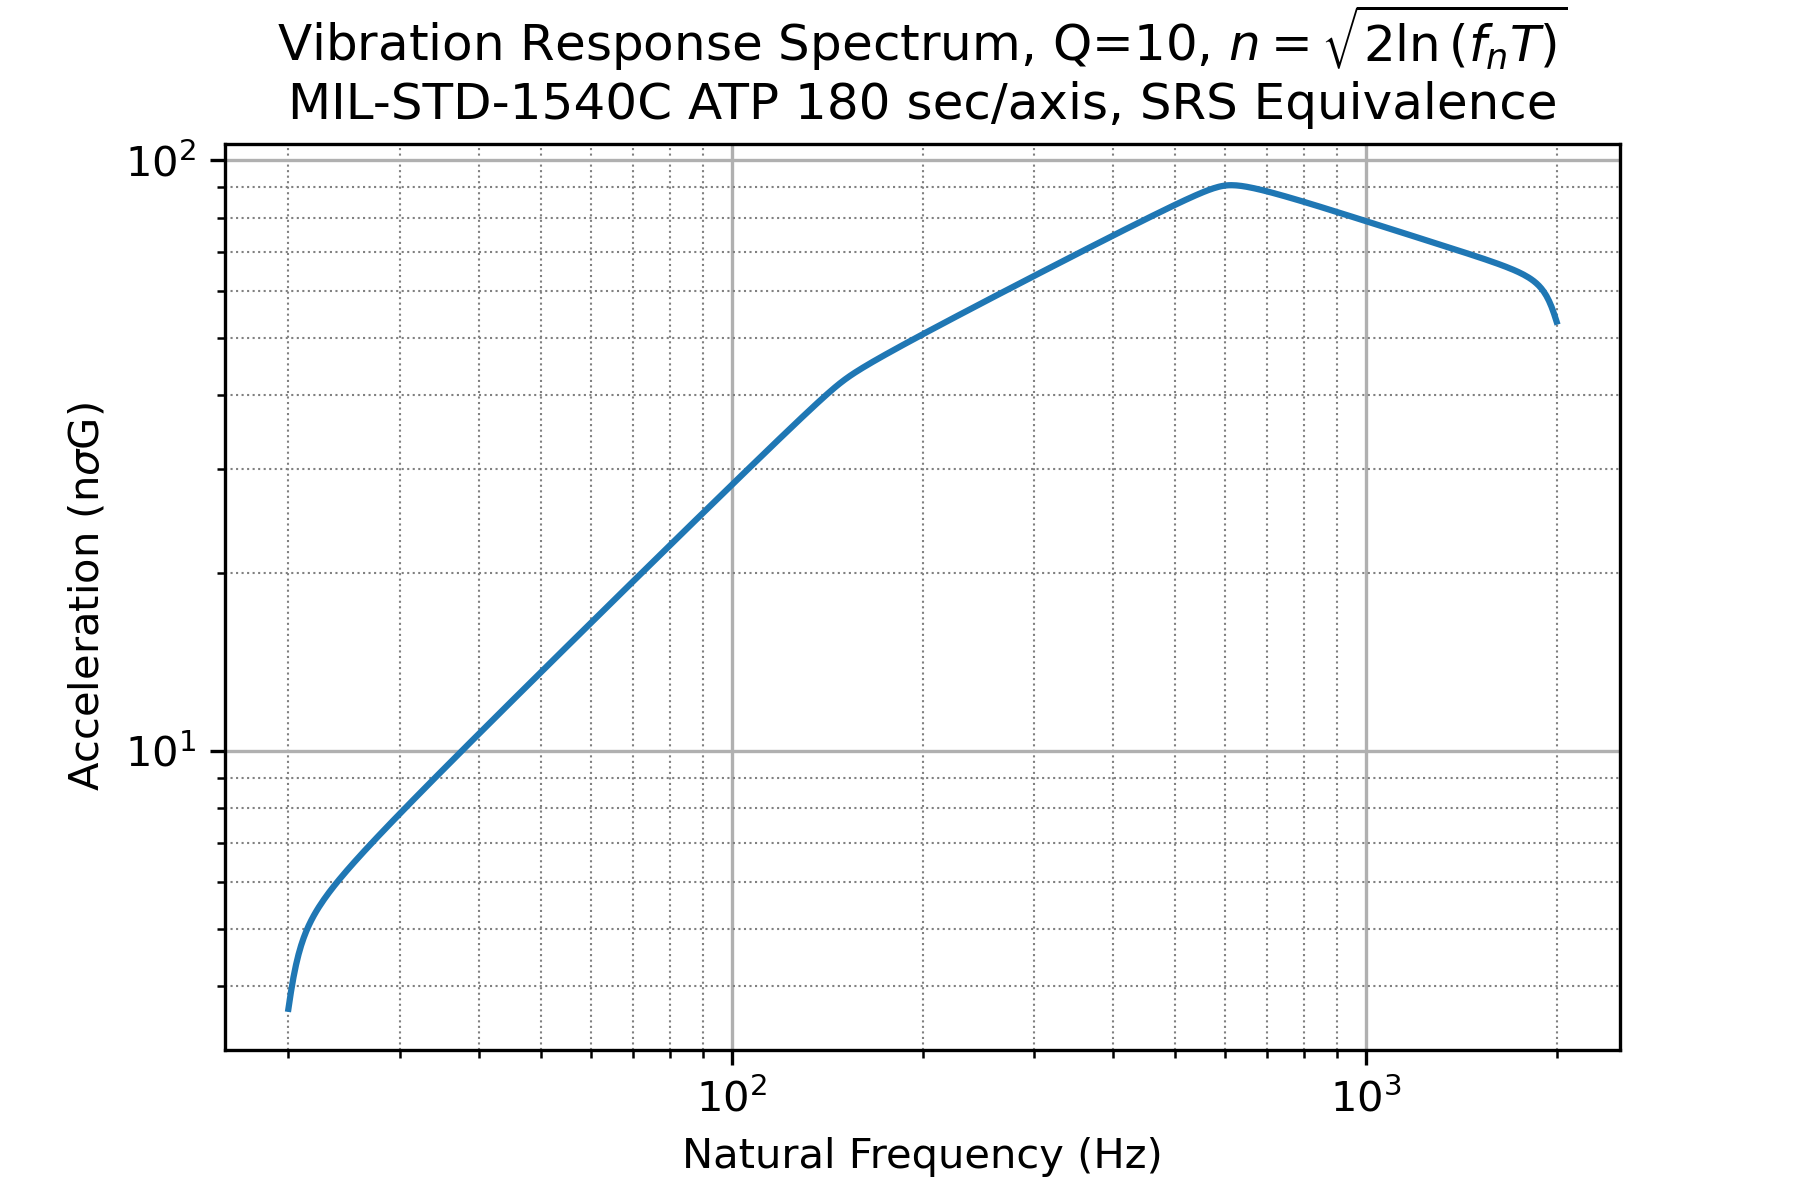
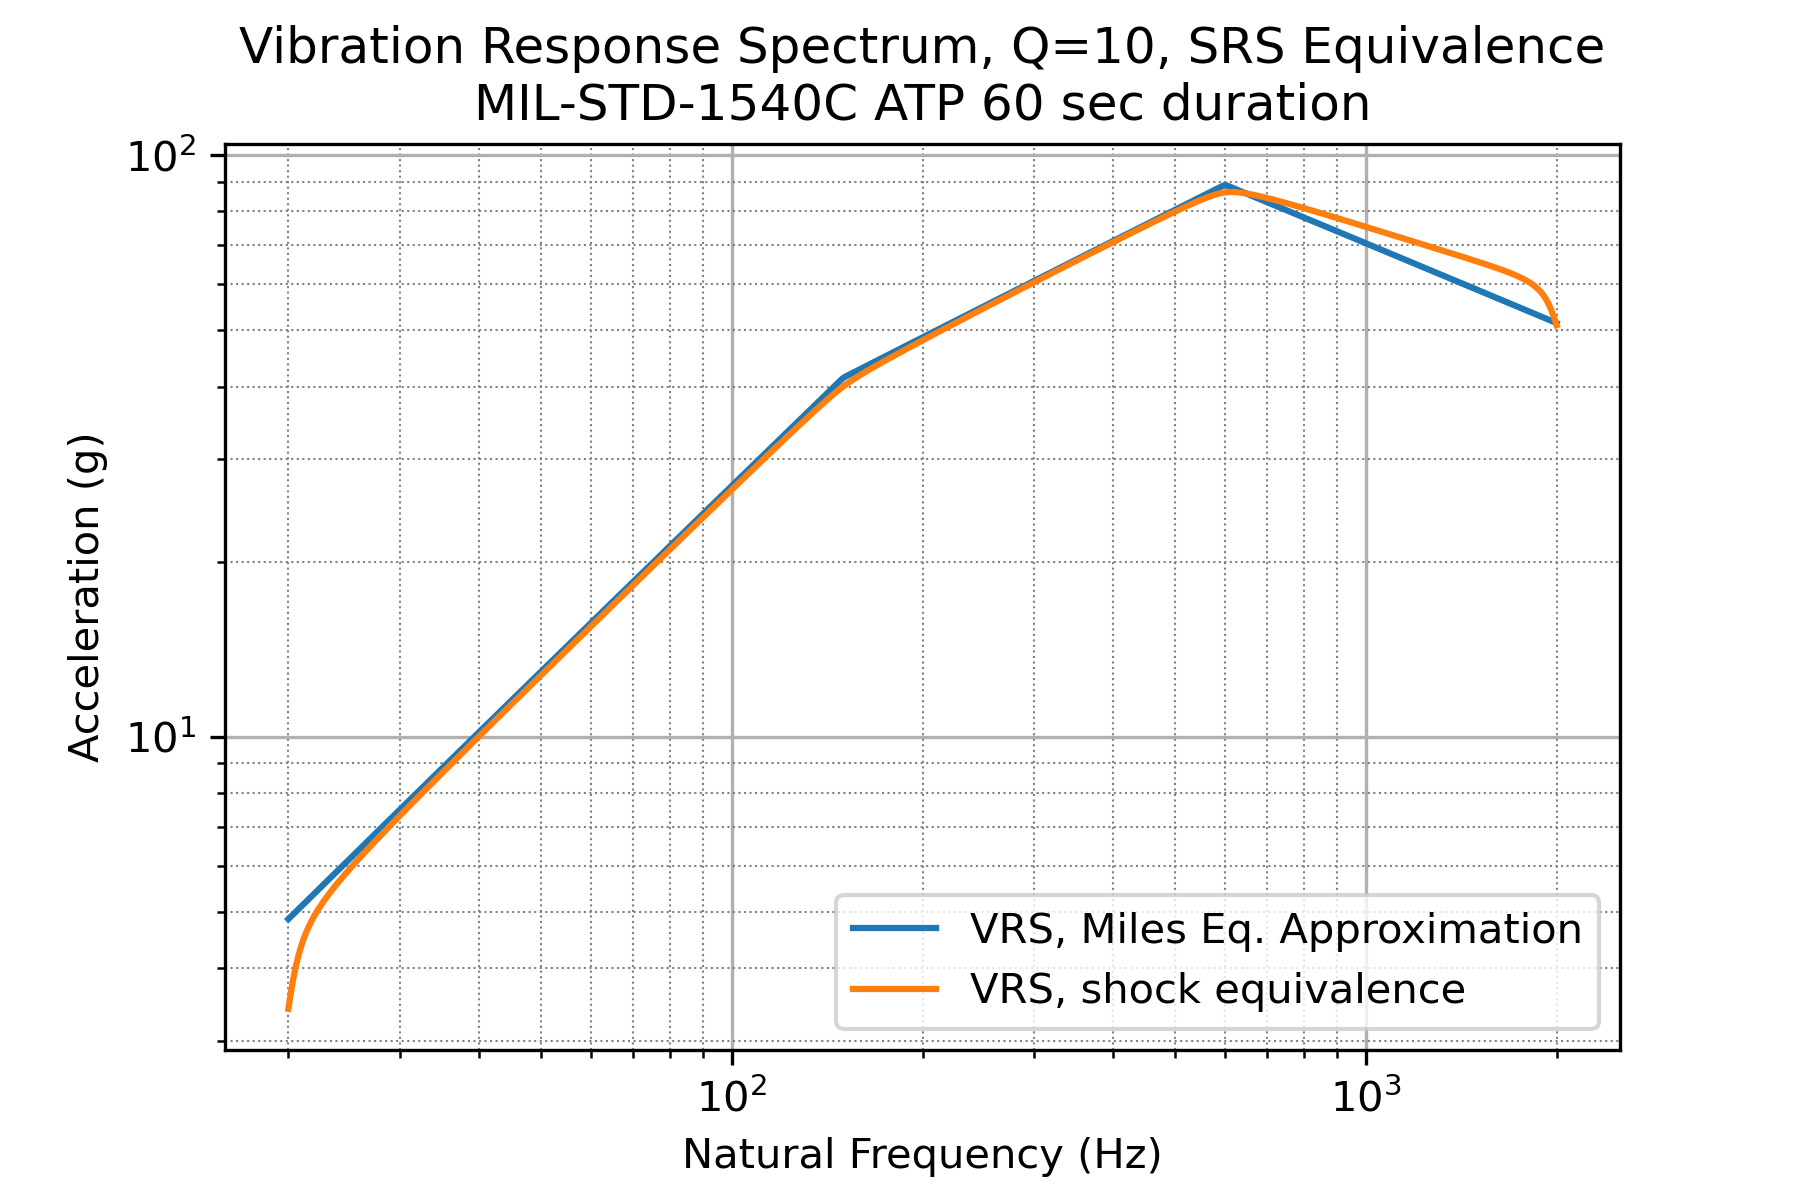
small changes + added miles approximation VRS

diff --git a/python/dynamics/vibration.py b/python/dynamics/vibration.py
@@ -1,6 +1,8 @@
 import numpy as np
+from scipy import signal, fft
 
 def loglogslopes(*args):
+    """computes the slope between points on a loglog scale"""
     if len(args) == 1:
         spectrum = args[0]
         freq_consecutive_ratios = spectrum[1:,0]/spectrum[0:-1, 0]
@@ -18,6 +20,7 @@ def loglogslopes(*args):
 
 
 def spectrum_area(*args):
+    """calculates the area underneath a loglog plot"""
     if len(args) == 1:
         spectrum = args[0]
         n = np.atleast_2d(loglogslopes(spectrum))
@@ -49,6 +52,7 @@ def spectrum_area(*args):
 
 
 def grms(*args):
+    """calculates the grms level of an acceleration power spectral density"""
     if len(args) == 1:
         area = spectrum_area(args[0])
     elif len(args) == 2:
@@ -62,6 +66,7 @@ def grms(*args):
 
 
 def findnearest_above(x_q, x):
+    """finds the element in x that is nearest but greater than x_q"""
     indices = np.searchsorted(x, x_q, side='right')
     indices = np.clip(indices, 0, len(x) - 1)
     
@@ -70,6 +75,7 @@ def findnearest_above(x_q, x):
 
 
 def findnearest_below(x_q, x):
+    """finds the element in x that is nearest and less than x_q"""
     indices = np.searchsorted(x, x_q, side='left')-1
     indices = np.clip(indices, 0, len(x) - 1)
     
@@ -78,6 +84,8 @@ def findnearest_below(x_q, x):
 
 
 def spectrum_points(spectrum, freq_query):
+    """given a power spectral density defined by the breakpoints in spectrum, 
+    interpolates the spectrum y values at the x values in freq_query"""
     ## This works but is failing at endpoints. Need to fix.
     spectrum_freqs = spectrum[:,0]
     spectrum_accel = spectrum[:,1]
@@ -89,19 +97,21 @@ def spectrum_points(spectrum, freq_query):
     
     slopes = np.log10(nearest_accel_above/nearest_accel_below)/np.log10(nearest_freq_above/nearest_freq_below)
     spectrum_points = nearest_accel_below/np.power(nearest_freq_below, slopes)*np.power(freq_query, slopes)
-    return spectrum_points, freq_query
+    return spectrum_points
     
 
 
 def sdof_psd_response(base_spectrum, f_n, Q, f_query):
+    """Calculates the power spectrum of the response of an array of SDOF
+    systems with natural frequencies f_n to the base excitation of base_spectrum"""
     f_n = np.atleast_2d(f_n)
     f_query = np.atleast_2d(f_query)
     
     if f_n.shape[1] != 1:
         f_n = f_n.T
     
-    if f_query.shape[0] > 1 & f_query.shape[1] == 1:
-        f_query = f_query.T
+    # if f_query.shape[0] > 1 & f_query.shape[1] == 1:
+    #     f_query = f_query.T
     
     rho = f_query/f_n
     zeta = 1/(2*Q)
@@ -111,10 +121,10 @@ def sdof_psd_response(base_spectrum, f_n, Q, f_query):
     
     sdof_response = psd_transfer_function*base_spectrum_y_vals
     return sdof_response
-
-
+    
 
 def vrs(*args):
+    """calculates the vibration response spectrum to the input base excitation spectrum"""
     spectrum = args[0]
     if len(args) == 1:
         f_n = np.logspace(np.log10(min(spectrum[:,0])), np.log10(max(spectrum[:,0])), 500)
@@ -132,7 +142,9 @@ def vrs(*args):
     
     
     
-def vrs_srs_equivalent(*args):
+def vrs_shock_equivalent(*args):
+    """calculates the n-sigma vibration response spectrum to the input base excitation spectrum
+    This is an 'equivalent shock response spectrum' of a random vibe signal described by the input spectrum"""
     spectrum = args[0]
     if len(args) == 1:
         f_n = np.logspace(np.log10(min(spectrum[:,0])), np.log10(max(spectrum[:,0])), 500)
@@ -155,6 +167,59 @@ def vrs_srs_equivalent(*args):
     vrs = grms(sdof_response, f_q);
     vrs_nsigma = vrs*nsigma
     return vrs_nsigma, f_q
-        
-        
-        
+
+
+
+def vrs_miles(spectrum, Q, duration):
+    """calculates estimated VRS using miles equation approximation, reference NASA SMC-S-016"""
+    f_n = np.logspace(np.log10(min(spectrum[:,0])), np.log10(max(spectrum[:,0])), 500)
+    f_n[-1] = spectrum[-1, 0] # set last element to equal largest element in spectrum
+    
+    G = spectrum_points(spectrum, f_n)
+    n = np.sqrt(2*np.log(f_n*duration))
+    vrs = n*miles(f_n, G, Q)
+    return vrs, f_n
+    
+
+    
+def miles(f_n, G, Q):
+    grms = np.sqrt(np.pi/2*G*f_n*Q)
+    return grms
+
+
+
+def synthesize_vibration(spectrum, duration):
+    """Synthesizes a random vibration time history described by the power spectral density in spectrum"""
+    # 1. Generate low passed white noise time history.
+    fs = 4000 # (Hz)
+    T = duration # (sec)
+    N = int(fs*T)
+
+    mean = 0
+    std_dev = 19
+    white_noise = np.random.normal(mean, std_dev, N)
+    
+    # 2. Lowpass the white noise
+    lowpass_filt_2000Hz = signal.butter(10, fs/2-1, 'lp', fs=fs, output='sos')
+    white_noise_filtered = signal.sosfilt(lowpass_filt_2000Hz, white_noise)
+    time = np.arange(N)/fs
+
+
+    # 3. Compute the fft of the white noise time history.
+    white_fft = fft.fft(white_noise_filtered)
+    fft_freqs = fft.fftfreq(N, 1/fs)
+
+
+    # 4. Calculate the target psd values that the white noise needs to be scaled to.
+    PSD_target = spectrum_points(spectrum, np.abs(fft_freqs))
+
+
+    # 5. scale the white noise signal in the frequency domain to match the target PSD
+    scale_fft = np.sqrt(PSD_target*fs/(2*np.power(std_dev, 2)))
+    synthesized_fft = scale_fft*white_fft
+
+
+    # 6. Compute the inverse fft to get the time history
+    synthesized_time_history = np.real(fft.ifft(synthesized_fft))
+    
+    return synthesized_time_history, time

diff --git a/python/acceptance_levels.py b/python/acceptance_levels.py
@@ -3,16 +3,17 @@ import matplotlib.pyplot as plt
 import dynamics.vibration as dy
 
 acceptance_level = np.array([[  20, 0.0053],
-                            [ 150, 0.04],
-                            [ 600, 0.04],
-                            [2000, 0.0036]])
+                             [ 150, 0.04],
+                             [ 600, 0.04],
+                             [2000, 0.0036]])
 
 
 
 freq_q = np.linspace(20, 2000, 1000)
-sdof_response = dy.sdof_psd_response(acceptance_level, np.array([100, 200, 300]), 10, freq_q)
+sdof_response = dy.sdof_psd_response(base_spectrum=acceptance_level, f_n=np.array([100, 200, 300]), Q=10, f_query=freq_q)
 vrs, f_vrs = dy.vrs(acceptance_level)
-vrs_nsigma, f_vrs_nsigma = dy.vrs_srs_equivalent(acceptance_level, 180)
+vrs_nsigma, f_vrs_nsigma = dy.vrs_shock_equivalent(acceptance_level, 60)
+vrs_miles, f_vrs_miles = dy.vrs_miles(spectrum=acceptance_level, Q=10, duration=60)
 
 
 fig, ax = plt.subplots()
@@ -33,16 +34,18 @@ ax2.set_ylim(1, 20)
 ax2.grid()
 ax2.grid(which='minor', linestyle=':', linewidth='0.5', color='gray') 
 plt.xlabel("Natural Frequency (Hz)")
-plt.ylabel("Acceleration (GRMS)")
+plt.ylabel("Acceleration (gRMS)")
 plt.title('Vibration Response Spectrum\nSDOF systems Q=10   Base Input: MIL-STD-1540C ATP')
 plt.savefig("vrs_python.png", dpi=300)
 
 
 fig, ax3 = plt.subplots()
+plt.loglog(f_vrs_miles, vrs_miles)
 plt.loglog(f_vrs_nsigma, vrs_nsigma)
 ax3.grid()
 ax3.grid(which='minor', linestyle=':', linewidth='0.5', color='gray') 
 plt.xlabel("Natural Frequency (Hz)")
-plt.ylabel(r"Acceleration (n$\sigma$G)")
-plt.title('Vibration Response Spectrum, Q=10, $n = \sqrt{2\ln{(f_nT)}}$\nMIL-STD-1540C ATP 180 sec/axis, SRS Equivalence')
+plt.ylabel(r"Acceleration (g)")
+plt.legend(["VRS, Miles Eq. Approximation", "VRS, shock equivalence"])
+plt.title('Vibration Response Spectrum, Q=10, SRS Equivalence\nMIL-STD-1540C ATP 60 sec duration')
 plt.savefig("vrs_nsigma_python.png", dpi=300)

diff --git a/python/random_synthesis.py b/python/random_synthesis.py
@@ -34,19 +34,22 @@ time = np.arange(N)/fs
 # 2. Compute the fft of the white noise time history.
 white_fft = fft.fft(white_noise_filtered)
 fft_freqs = fft.fftfreq(N, 1/fs)
-PSD_target, PSD_target_freqs = vibe.spectrum_points(acceptance_level, np.abs(fft_freqs))
 
 
-# 3. scale the white noise signal in the frequency domain to match the target PSD
+# 3. Calculate the target psd values that the white noise needs to be scaled to.
+PSD_target = vibe.spectrum_points(acceptance_level, np.abs(fft_freqs))
+
+
+# 4. scale the white noise signal in the frequency domain to match the target PSD
 scale_fft = np.sqrt(PSD_target*fs/(2*np.power(std_dev, 2)))
 synth_fft = scale_fft*white_fft
 
 
-# 4. Compute the inverse fft to get the time history
+# 5. Compute the inverse fft to get the time history
 synth_time_history = np.real(fft.ifft(synth_fft))
 
 
-# 5. Time history analysis: evaluate the PSD, kurtosis, & histogram
+# 6. Time history analysis: evaluate the PSD, kurtosis, & histogram
 f_synth, psd_synth = signal.welch(synth_time_history, fs)
 kurtosis = np.sum(np.power(synth_time_history-np.mean(synth_time_history), 4))/(synth_time_history.shape[0]*np.power(np.std(synth_time_history), 4))
 
